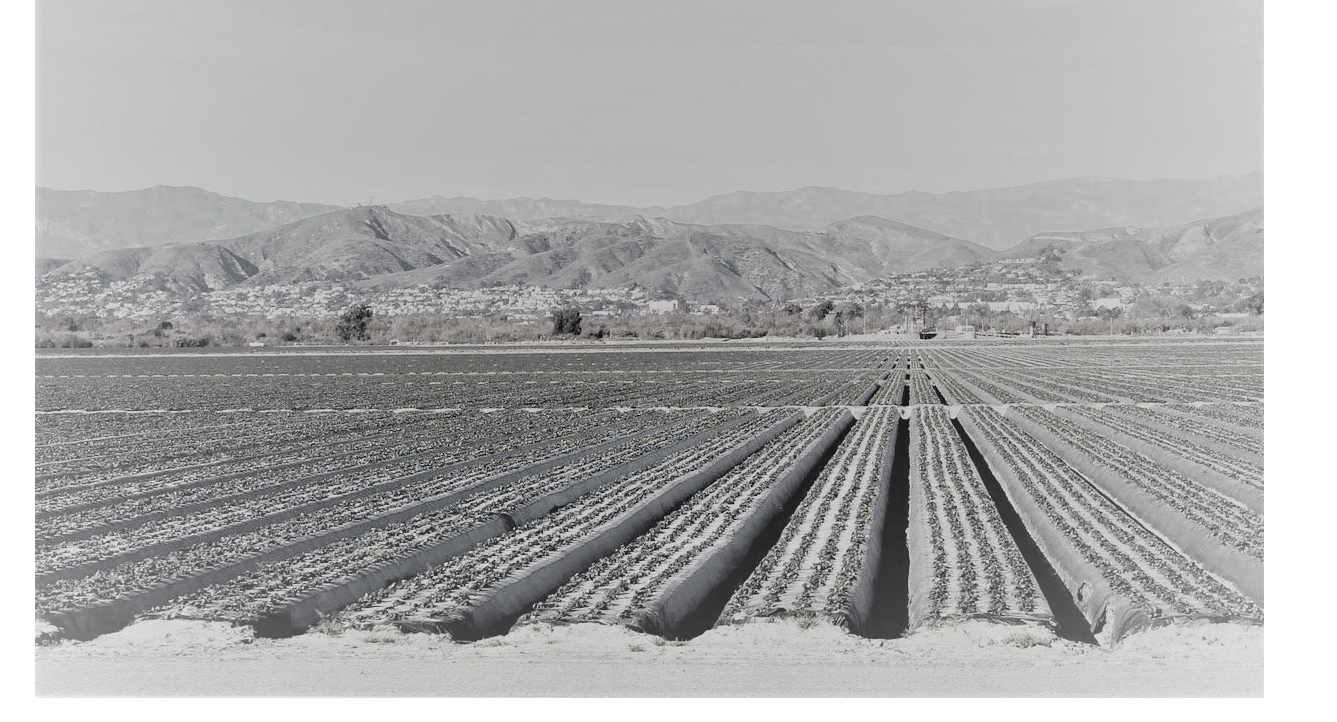
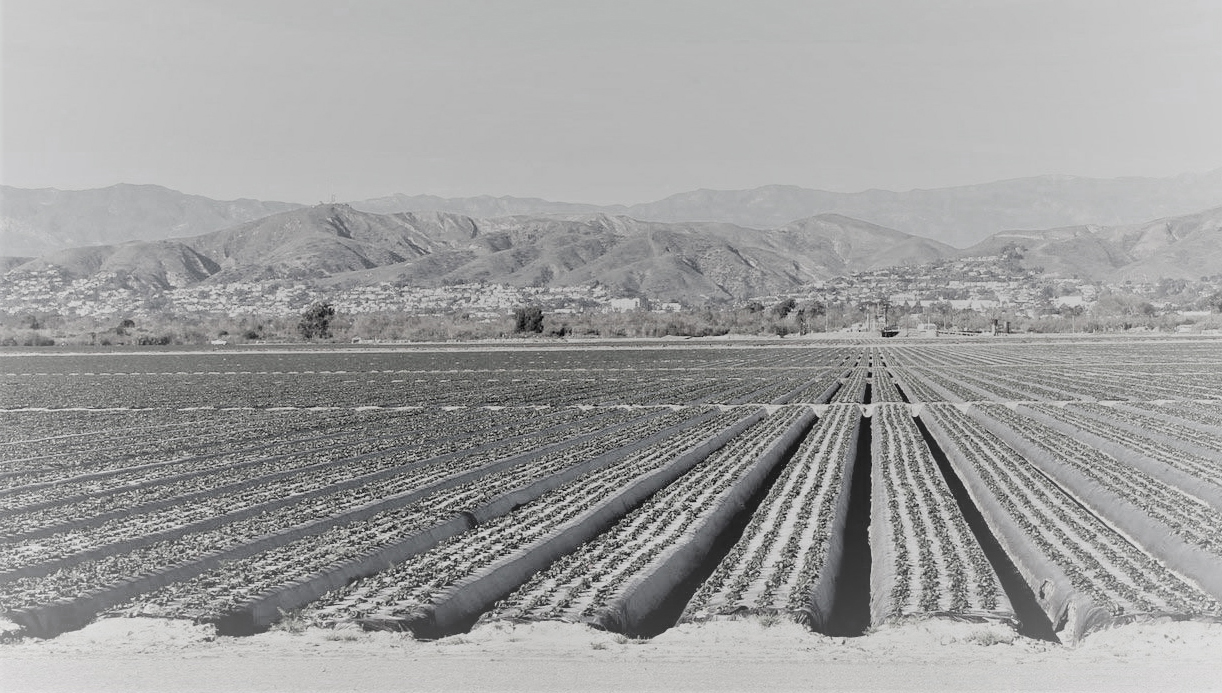
fixed UI experience..no dark background

diff --git a/public/basic.css b/public/basic.css
@@ -5,7 +5,7 @@
 }
 
 html {
-  background: url(images/fieldsBW.jpg) no-repeat center center fixed;
+  background: url(images/oxnardFieldsBW.jpg) no-repeat center center fixed;
   -webkit-background-size: cover;
   -moz-background-size: cover;
   -o-background-size: cover;
@@ -13,14 +13,24 @@ html {
   background-color: black;
 }
 
+#fullName {
+  font-size: 0px;
+  color: black;
+  font-family: Brush Script MT, cursive;
+  text-align: center;
+  margin: 20px;
+  text-shadow: 5px 5px #3b38384d;
+  background-color: #ffffff6b;
+}
 
-h1 {
-  color: white;
+#initials {
+  color: black;
   font-family: Brush Script MT, cursive;
   text-align: center;
   margin: 0;
-  text-shadow: 5px 5px #3b3838;
+  text-shadow: 5px 5px #3b38384d;
   font-size: 50px;
+  background-color: #ffffff6b;
 }
 
 #main-menu {
@@ -41,18 +51,34 @@ h1 {
 
 nav {
   text-align: center;
-  color: white;
+  color: black;
 }
 
 
 .main-nav a {
   padding: 5px;
-  font-size:  2vw;
+  font-size:  20px;
+  font-family: Brush Script MT, cursive;
+  text-decoration: none;
+  color: black;
+  font-weight: bold;
 }
 
 .slideshow {
   display: flex;
   justify-content: center;
+}
+
+.slideshow-button-left {
+  font-size: 35px;
+  border: none;
+  background-color: transparent;
+}
+
+.slideshow-button-right {
+  font-size: 35px;
+  background-color: transparent;
+  border: none;
 }
 
 /* .main-nav ul {
@@ -72,29 +98,25 @@ nav {
   display: flex;
   flex-direction: row;
   list-style-type: none;
-  color: white;
+  color: black;
 }
 
 .main-nav span {
   display: none;
 }
 
-.main-nav a {
-  color: white;
-  text-decoration: none;
-}
 
 li {
-  padding: 3%;
   text-align: center;
   margin:auto;
-  color: white;
+  color: black;
+  background-color: #ffffff6b
 }
 
 #hi {
   text-align: center;
   margin-top: 6%;
-  color: white;
+  color: black;
   height: 150px;
   margin-bottom: 11%;
   border-radius:10px;
@@ -124,9 +146,9 @@ li {
 }
 
 .testProjects {
-  background-color: #ffffff66;
+  background-color: #ffffffa8;
   border-radius: 10px;
-  color: white;
+  color: black;
   width: 70%;
   margin-left: auto;
   margin-right: auto;
@@ -152,17 +174,22 @@ h2, h5{
 
 /*contact me section*/
 #contact-me {
-  color: white;
+  color: black;
 }
 
 
 @media screen and (min-width: 415px) {
-  h1 {
+  #fullName {
     font-size: 85px;
+    background-color: #ffffff6b;
+    margin: 20px;
+  }
+  #initials {
+    font-size: 0px;
   }
 
   .mySlides {
-    height: 200px;
+    height: 187px;
     border: 5px solid white;
   }
   #hi {
@@ -170,6 +197,18 @@ h2, h5{
     margin-right:auto;
     margin-left: auto;
     height: 200px;
+  }
+
+  .slideshow-button-left {
+    font-size: 35px;
+    border: none;
+    background-color: transparent;
+  }
+
+  .slideshow-button-right {
+    font-size: 35px;
+    background-color: transparent;
+    border: none;
   }
 
 }
@@ -183,6 +222,10 @@ h2, h5{
 
   .main-nav span {
     display: none;
+  }
+
+  #initials {
+    font-size:0px;
   }
 
   #image {
@@ -202,7 +245,7 @@ h2, h5{
   }
 
   .mySlides {
-    height: 300px
+    height: 269px
   }
 
   #hi {
@@ -222,6 +265,18 @@ h2, h5{
     display: none;
   }
 
+  .slideshow-button-left {
+    font-size: 35px;
+    border: none;
+    background-color: transparent;
+  }
+
+  .slideshow-button-right {
+    font-size: 35px;
+    background-color: transparent;
+    border: none;
+  }
+
 }
 
 @media screen and (min-width: 950px) {
@@ -238,16 +293,25 @@ h2, h5{
   margin: auto;
 }
 
-h1 {
+#fullName {
   font-size: 150px;
+  background-color: #ffffff6b;
+}
+
+#initials {
+  font-size: 0px;
 }
 
 .testProjects {
-  background-color: #ffffff66;
+  background-color: #ffffffa8;
   border-radius: 10px;
-  color: white;
+  color: black;
   width: 70%;
   margin-left: auto;
   margin-right: auto;
   text-align: center;
+}
+
+.mySlides {
+  height: 315px
 }

diff --git a/public/index.html b/public/index.html
@@ -10,7 +10,8 @@
       <header id="page-header">Nancy Perez Portfolio Site</header>
 
       <div id="nameHeader">
-        <h1>Nancy Perez</h1>
+        <h1 id="initials">NP</h1>
+        <h1 id="fullName">Nancy Perez</h1>
       </div>
       <nav class="main-nav">
         <label class="icon-menu" for="menu-toggle"></label>
@@ -24,12 +25,12 @@
       <main>
         <section id="hi" class="tabs">
               <div class="slideshow" >
-                <button class="slidshow-button-left" onclick="plusDivs(-1)">&#10094;</button>
+                <button class="slideshow-button-left" onclick="plusDivs(-1)">&#10094;</button>
                 <img class="mySlides" src="images/busMall.jpg">
                 <img class="mySlides" src="images/oxnardCity.jpg">
                 <img class="mySlides" src="images/oxnardFields.jpg">
                 <img class="mySlides" src="images/salmon.jpg">
-                <button class="slidshow-button-right" onclick="plusDivs(1)">&#10095;</button>
+                <button class="slideshow-button-right" onclick="plusDivs(1)">&#10095;</button>
               </div>
         </section>
 

diff --git a/public/script.js b/public/script.js
@@ -24,7 +24,7 @@ Project.prototype.toHtml = function() {
 Project.loadAll = function(rawData) {
   rawData.forEach( function(project) {
     Project.all.push(new Project(project));
-  });
+  }); 
   Project.all.forEach(function(project) {
     $('#projects').append(project.toHtml());
   });
